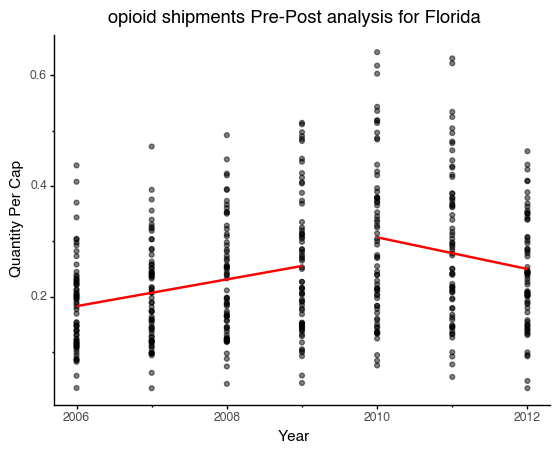
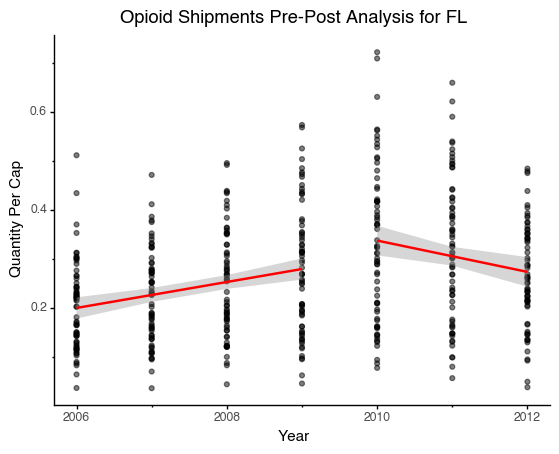
m

diff --git a/10_code/Shipments-04-diffInDiff.py b/10_code/Shipments-04-diffInDiff.py
@@ -1,17 +1,27 @@
 
+#################### README ###################################
+# This code include:
+# 1. Some functions used frequently
+# 2. Code for three states: FL, AL, GA
+#    1) Read data（both Shipment data and Population data）
+#    2）Transfer TRANSACTION_DATE to 'year & month'
+#    3) Merge Shipment data with Poplulation data
+#    4) Group by 'BUYER_STATE','BUYER_COUNTY', 'YEAR'
+#    5) Normalize Shipment Quantity by Population
+#    6) Pre-post plot
+# 3. Diff-in-diff plot with three states
 
-# Diff-in-diff
-# Picking the states most proximate to FL geographically
-# We choose the neighbor state of FL: Alabama and Georgia
+# Note: For diff-in-diff analysis, we pick the states most proximate to FL geographically: Alabama and Georgia
 
 
-# Import
+# import packages
 import pandas as pd
 import numpy as np
 from plotnine import *
 
 
-#### Some functions here ###
+
+######### Some useful functions here ##########
 '''
 Read data
 '''
@@ -21,23 +31,21 @@ def readData(path):
                      usecols=['TRANSACTION_DATE', 'BUYER_STATE', 'BUYER_COUNTY', 'QUANTITY', 'BUYER_ZIP'])
     return df
 
-
 '''
 Transfer TRANSACTION_DATE to year & month
 '''
 def transferDate(df_shipments):
-# Convert RTANSACTION_DATE to string in order to subset it
+    # Convert RTANSACTION_DATE to string in order to subset it
     df_shipments['TRANSACTION_DATE'] = df_shipments['TRANSACTION_DATE'].astype(str)
-# Subset the TRANSACTION_DATE, and get YEAR and Month
+    # Subset the TRANSACTION_DATE, and get YEAR and Month
     df_shipments['YEAR'] = df_shipments['TRANSACTION_DATE'].apply(lambda x: x[-4:])
     df_shipments['MONTH'] = df_shipments['TRANSACTION_DATE'].apply(lambda x: x[-8:-6])
-# Convert to int, in order to use PeriodIndex
-# Create a new col as YYYY-MM
+    # Convert to int, in order to use PeriodIndex
+    # Create a new col as YYYY-MM
     df_shipments['YEAR'] = df_shipments['YEAR'].astype(int)
     df_shipments['MONTH'] = df_shipments['MONTH'].astype(int)
     df_shipments['TRANSACTION_TIME'] = pd.PeriodIndex(year=df_shipments["YEAR"], month=df_shipments["MONTH"], freq="m")
     return df_shipments
-
 
 '''
 group by 'BUYER_STATE','BUYER_COUNTY', 'YEAR'
@@ -48,16 +56,14 @@ def groupBy(shipment_merged):
     shipment_grouped.head()
     return shipment_grouped
 
-
 '''
 Normalization for Quantity
 '''
 # Normalize the quantity
 def normalize(shipment_grouped):
-    shipment_grouped['QUANTITY_PERCAP'] = shipment_grouped['QUANTITY']/shipment_grouped['POP']
+    shipment_grouped['QUANTITY_PERCAP'] = shipment_grouped['QUANTITY']/shipment_FL_grouped['POP']
     shipment_grouped['POST'] = (shipment_grouped.YEAR > 2009)*1
     return shipment_grouped
-
 
 '''
 Plot pre-post
@@ -67,7 +73,7 @@ def plot(shipment_grouped, state_name):
                + geom_point(alpha = 0.5)
                + geom_smooth(method='lm', fill=None, colour="red")
                +theme_classic(base_family = "Helvetica")
-               +labs(title= f"Opioid shipments Pre-Post analysis for {state_name}",
+               +labs(title= f"opioid shipments Pre-Post analysis for {state_name}",
                      x="Year",
                      y="Quantity Per Cap"))
     # Save
@@ -76,7 +82,8 @@ def plot(shipment_grouped, state_name):
 
 
 
-###### Import poplulation data #######
+
+####### Import poplulation data ########
 # Import poplulation dataset for all states and counties
 pop = pd.read_excel('/Users/ZifanPeng/Desktop/IDS-data/Population2010_AllCounties.xls')
 pop = pop.iloc[6:3229,0:4].copy().reset_index(drop=True)
@@ -88,6 +95,46 @@ pop = pop.dropna(how='all')
 pop['County'] = pop['County'].str.upper()
 pop['County'] = pop['County'].str.replace(' COUNTY', '')
 pop = pop.rename(columns={'Population_2010':'POP'})
+
+
+
+
+
+###### Florida ########
+# Import shipment data for Florida
+shipments_FL = readData('/Users/ZifanPeng/Desktop/IDS-data/arcos-fl-statewide-itemized.tsv')
+# Deal with NaN values
+shipments_FL['BUYER_COUNTY'] = shipments_FL['BUYER_COUNTY'].replace(np.nan, 'PINELLAS')
+# Check if we have nan value
+assert (shipments_FL.isnull().any().sum())==0
+
+# Transfer time
+shipments_FL = transferDate(shipments_FL)
+
+# Subset population for FL
+pop_FL = pop[pop.State == 'Florida'].reset_index().drop('index', axis = 1)
+pop_FL['County'] = pop_FL['County'].replace({'ST. LUCIE': 'SAINT LUCIE',
+                                                          'ST. JOHNS': 'SAINT JOHNS',
+                                                          'DESOTO': 'DE SOTO'})
+
+# Merge
+shipment_FL_merged = pd.merge(shipments_FL, pop_FL, left_on='BUYER_COUNTY', right_on='County',
+                   how='left' ,validate = 'm:1', indicator=True)
+# Check if 'both' merged
+assert (shipment_FL_merged['_merge']=='both').all()
+# Drop uncorrelated cols
+shipment_FL_merged = shipment_FL_merged.drop( ['County', 'State','_merge'], axis = 1)
+
+# Group by
+shipment_FL_grouped = groupBy(shipment_FL_merged)
+
+# normalize
+normalize(shipment_FL_grouped)
+shipment_FL_grouped.head()
+
+# Plot
+plot(shipment_FL_grouped, 'FL')
+
 
 
 
@@ -163,3 +210,24 @@ shipment_GA_grouped.head()
 
 # Plot
 plot(shipment_GA_grouped, 'AL')
+
+
+
+
+############## Diff-in-diff plot (FL, AL, GA) ##################
+prePost = (ggplot(aes(x = 'YEAR', y = 'QUANTITY_PERCAP', group = 'POST', color = 'BUYER_STATE'))
+           # Florida
+           +geom_smooth(method = 'lm', data = shipment_FL_grouped)
+           # Alabama
+           +geom_smooth(method = 'lm', data = shipment_AL_grouped)
+           # Georgia
+           +geom_smooth(method = 'lm', data = shipment_GA_grouped)
+           # Change themes
+           +theme_classic(base_family = "Helvetica")
+           # change labels
+           +labs(title = "Opioid Shipments Rate, Policy Change in 2010 in FL",
+                 x = "Year",
+                 y = "Quantity Per Cap",
+                 color = "State")
+          )
+prePost.save(f'/Users/ZifanPeng/Desktop/estimating-impact-of-opioid-prescription-regulations-team-2/30_results/Diff-in-diff.png')
